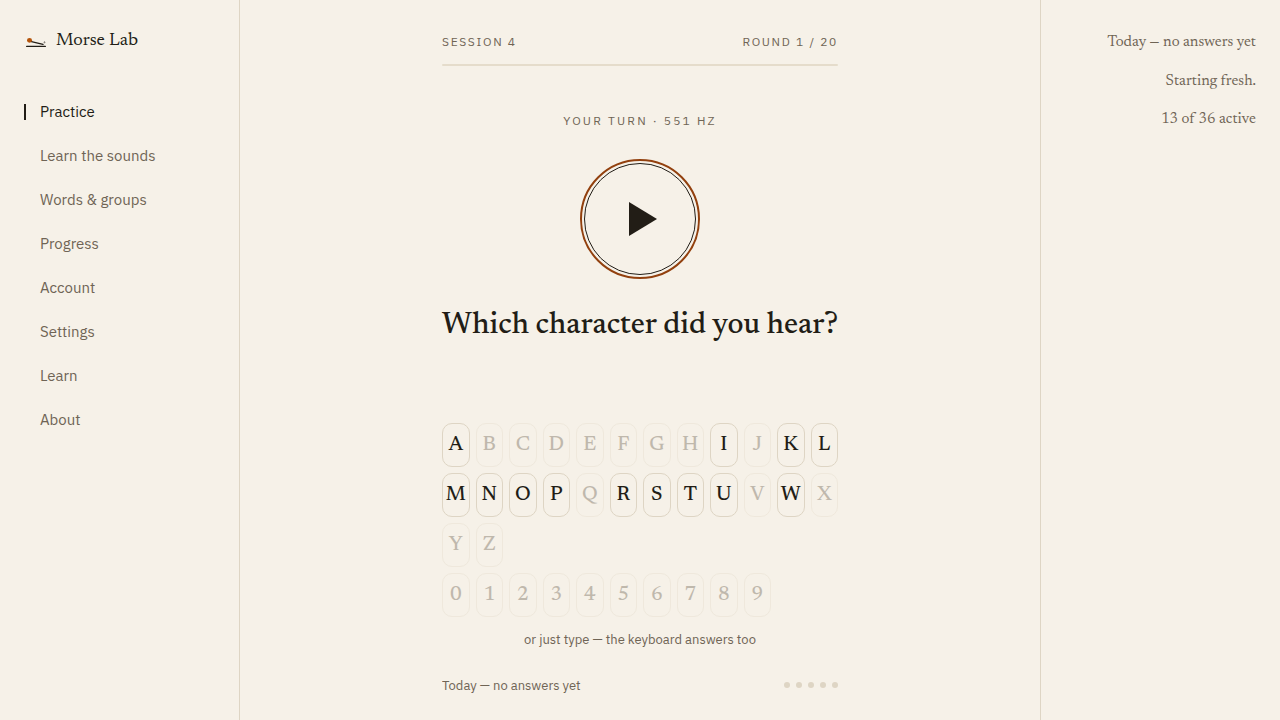
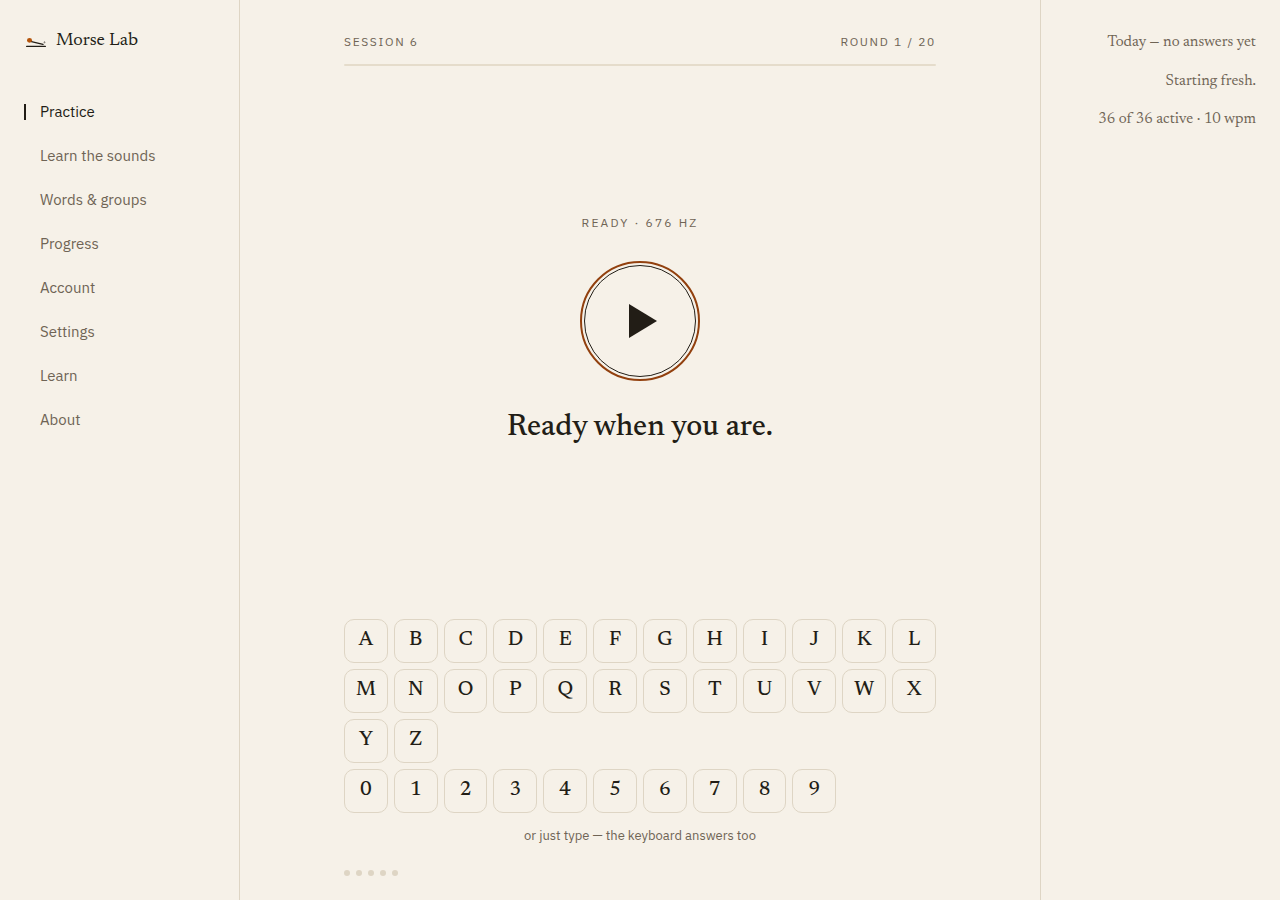
D1 Nachtrag: Schienenbreite, doppelte Zahlen, FINDINGS #7 korrigiert (Ruling #98)
Fable hat D1 per eigener Nachmessung geprüft und drei Fehler gefunden, die der
erste Bericht nicht hatte:

(a) `.shell` war am Laptop 378 statt 600 px breit — `margin: 0 auto` auf
einem Grid-Item hebt das Stretchen der Inline-Achse auf, `max-width` griff
nie. Fix: `width: 100%` erzwingt das Füllen der Spalte zuerst, Grenze auf
640 px angehoben. Gemessen: Schiene jetzt 640 px, Tastenbreite 43,83 px bei
1024/1280/1440 px (vorher 22 px).

(b) Tagesquote, Streak und Tempo standen ab 1280 px doppelt (Randspalte und
weiterhin `.streak-note`/`.footer-stats` in der Mittelspalte). Fix: gezielte
Kindselektoren blenden nur die zwei Duplikate aus, Sitzungspunkte und die
gleichnamige Drill-Einladung bleiben unberührt.

(c) Der Auftrag zu FINDINGS #7 wurde in der ersten Runde stillschweigend
übersprungen — nicht gemessen, nicht benannt, nicht behoben. Das wird hier
offen benannt statt versteckt. Die Nachmessung zeigt zugleich: die Diagnose
seit F2 war falsch (nicht 36 aktive Zeichen, sondern immer sieben
Tastenreihen plus eine Kopfzeile, die nur im Bereit-Zustand steht — 890 px
bei 15 wie bei 36 Zeichen). Ruling #98 nimmt die 52/46-Trennung aus #94
zurück: eine Tastenhöhe (46 px) überall am Handy, `margin-top` 32→24 px.
Gemessen: Bereit-Zustand jetzt 844 px bei 15 und bei 36 aktiven Zeichen
(vorher 890 px), alle anderen Zustände unverändert. FINDINGS #7 komplett neu
geschrieben. Nebeneffekt: FINDINGS #9 verbessert sich weiter auf 820 px
natürliche Inhaltskante (vorher 843 px).
[…]

diff --git a/src/styles.css b/src/styles.css
@@ -508,43 +508,35 @@ button:disabled {
  * Feedback-Zustaende -- und aendert nur Raster, Hoehe und Schriftgrad.
  *
  * 390 px Schale minus 2 x 24 px Rand ergibt 342 px; sechs Spalten mit fuenf
- * Luecken von 8 px lassen 50 px je Taste. Mit 52 px Hoehe liegt jede Taste
+ * Luecken von 8 px lassen 50 px je Taste. Mit 46 px Hoehe liegt jede Taste
  * ueber der Zielgroesse aus WCAG 2.5.5 (--tap: 44px), die als min-height
  * darunter steht und auch bei groesserer Schrift haelt.
+ *
+ * **Eine Hoehe fuer alle Modi -- Ruling #98 nimmt Ruling #94 zurueck.** Die
+ * fruehere Trennung (52 px Training, 46 px Wort-Modus) war die Rechtfertigung
+ * einer Zahl, die #94 gebraucht hat, kein eigenstaendiges Prinzip: Sie loeste
+ * nur das Scrollen des *Wort*-Screens und verschwieg, dass der Bereit-Zustand
+ * des Trainings dasselbe Problem hatte (FINDINGS #7). Grund ist die immer
+ * gleiche Hoehe des Tastenfelds: alle 36 Positionen stehen immer da (sieben
+ * Reihen -- A-F, G-L, M-R, S-X, Y-Z, 0-5, 6-9 --, unabhaengig davon, wie viele
+ * Zeichen aktiv sind), plus die App-Kopfzeile im Bereit-Zustand. 46 px ueberall
+ * plus ein kleinerer Abstand darueber (24 statt 32 px) bringen beide Faelle
+ * unter 844 px bei 390 x 844 -- siehe HANDOVER §3n.
  */
 .keypad {
   flex: none;
-  margin-top: 32px;
+  margin-top: 24px;
   display: grid;
   grid-template-columns: repeat(6, 1fr);
   gap: var(--space-1);
 }
 
 .keypad .answer {
-  height: 52px;
+  height: 46px;
   min-height: var(--tap);
   /* Eine Stufe kleiner als im Dreier-Gitter (26 px): die Taste ist schmaler,
    * und 20 px stehen darin ohne Enge. Newsreader bleibt Newsreader. */
   font-size: 20px;
-}
-
-/* --- Die Tastenhoehe im Wort-Modus: 46 px statt 52 (Ruling #94) ---
- *
- * Dieselben 36 Positionen, dieselbe Ordnung -- nur flacher. Der Grund ist die
- * Rolle, die das Feld hier hat: **im Training ist das Tastenfeld die Antwort**
- * (ein Tipp = eine Antwort), **im Wort-Modus ist es eine Eingabetastatur**
- * (viele Tipps je Antwort). Eine Tastatur darf kompakter sein; ein Antwortfeld,
- * auf das eine gemessene Reaktionszeit faellt, nicht.
- *
- * Sechs Reihen mal 6 px sparen 36 px -- genau der Platz, den die App-Kopfzeile
- * kostet, seit der Modus offen ist und der Weg hinaus ueber das Menue fuehrt
- * (Ruling #87, HANDOVER §3l). 46 px liegen weiterhin ueber der Zielgroesse aus
- * WCAG 2.5.5 (--tap: 44px), die als min-height ohnehin darunter steht.
- *
- * **Nur hier.** Das Einzelzeichen-Training bleibt bei 52 px.
- */
-.keypad.keypad-typing .answer {
-  height: 46px;
 }
 
 /*
@@ -1518,8 +1510,19 @@ a.menu-item {
     min-height: 100dvh;
   }
 
+  /*
+   * Nachtrag Notion-Log #97 (Fable, per Nachmessung): `margin: 0 auto` allein
+   * hebt auf einem Grid-Item das Stretchen der Inline-Achse auf -- ohne
+   * eigenes `width` wird `.shell` content-sized statt spaltenbreit, und
+   * `max-width` kommt nie zum Tragen. Gemessen war die Spalte dadurch 378 px
+   * breit statt der beabsichtigten 600, das Tastenfeld entsprechend eng
+   * (22 px je Taste). `width: 100%` erzwingt das Fuellen der Spalte bis zur
+   * Grenze; `margin: 0 auto` zentriert danach nur noch, wenn die Spalte
+   * breiter als `max-width` ist. Grenze zugleich auf 640 px angehoben.
+   */
   .shell {
-    max-width: 600px;
+    width: 100%;
+    max-width: 640px;
     margin: 0 auto;
   }
 
@@ -1636,12 +1639,11 @@ a.menu-item {
   }
 
   /*
-   * Eine Hoehe fuer beide Modi -- die Unterscheidung 52/46 px (Ruling #94)
-   * gilt nur unter 900 px (Teil B.6). Deshalb beide Selektoren, gleiche
-   * Spezifitaet wie unten: die Reihenfolge im Quelltext entscheidet.
+   * Seit Ruling #98 gibt es nur noch eine Tastenhoehe je Breakpoint --
+   * 44 px hier, 46 px darunter (Teil B.6). Kein zweiter Selektor mehr noetig:
+   * `.keypad-typing` ist mit der Ruling-#94-Trennung mit weggefallen.
    */
-  .keypad .answer,
-  .keypad.keypad-typing .answer {
+  .keypad .answer {
     height: 44px;
   }
 
@@ -1708,5 +1710,22 @@ a.menu-item {
     font-size: 15px;
     line-height: 1.5;
     color: var(--gray);
+  }
+
+  /*
+   * Nachtrag Notion-Log #97: dieselben Zahlen standen doppelt -- einmal hier
+   * in der Randspalte, einmal als `.streak-note` (Start-Screen und
+   * Abschluss-Screen) und `.footer-stats` (Fusszeile) in der Mittelspalte.
+   * Ausgeblendet werden nur die beiden direkten Duplikate; die
+   * Sitzungspunkte (`.dots`, ebenfalls in `.footer`) bleiben stehen, und die
+   * Drill-Einladung -- die zufaellig dieselbe `.streak-note`-Klasse nutzt,
+   * aber einen anderen Satz zeigt -- bleibt ueber die Kindselektoren
+   * unberuehrt (`.shell > .streak-note` trifft sie nicht, sie steckt in
+   * `.drill-invite`).
+   */
+  .shell > .streak-note,
+  .shell > .stage > .streak-note,
+  .footer-stats {
+    display: none;
   }
 }

diff --git a/src/ui/Words.tsx b/src/ui/Words.tsx
@@ -367,11 +367,7 @@ function Keys({
 
   return (
     <>
-    {/*
-      `keypad-typing` senkt die Tastenhoehe -- nur hier, nicht im Training
-      (styles.css nennt den Grund, Ruling #94).
-    */}
-    <div className={keypad ? 'keypad keypad-typing' : 'answers'}>
+    <div className={keypad ? 'keypad' : 'answers'}>
       {positions.map((char) => {
         const active = !keypad || asked.has(char);
 

diff --git a/HANDOVER.md b/HANDOVER.md
@@ -1544,7 +1544,134 @@ Bildmarke, die Wortliste, die Tempo-Progression. D1 ist eine reine
 CSS-plus-zwei-Komponenten-Runde — kein Zustand ist neu, nur seine Darstellung
 ab zwei Breakpoints.
 
+## 3n. Runde D1, Nachtrags-Commit — drei Fehler aus eigener Nachmessung, ein übersprungener Auftrag
+
+**Der erste Bericht zu D1 war nicht vollständig, und Fable hat das per eigener
+Nachmessung gefunden, nicht per Vertrauen in den Bericht.** Drei technische
+Punkte und ein Prozesspunkt — letzterer wiegt schwerer als die drei anderen
+zusammen.
+
+**(a) Die Schiene war 378 statt 600 px breit — `margin: 0 auto` auf einem
+Grid-Item hebt das Stretchen auf.** `.shell` saß als Grid-Item in
+`.app-layout` und trug `max-width: 600px; margin: 0 auto;`. Was fehlte: ein
+eigenes `width`. Ohne das behandelt CSS Grid ein Item mit `margin: auto` in
+der Inline-Achse nicht als „strecke bis zur Spaltenbreite, dann kappe bei
+`max-width`", sondern als content-sized — die Spalte war 600 px breit
+verfügbar, `.shell` füllte sie aber nie, sondern schrumpfte auf den Inhalt.
+Gemessen: 378 px. Folge: das flache Tastenfeld aus §3m (zwölf Spalten) hatte
+nur 22 px pro Taste — enger als das Handy-Problem, das D1 lösen sollte, und
+zwar auf dem Laptop. **Behoben:** `width: 100%` zusätzlich zu `max-width:
+640px` (die Grenze zugleich leicht angehoben) erzwingt das Füllen der Spalte
+zuerst; `margin: 0 auto` zentriert danach nur noch, wenn die Spalte breiter
+als 640 px ist. Nachgemessen: `.shell` jetzt 640 px bei 1024/1280/1440 px,
+Tastenbreite **43,83 px** bei allen dreien (§4) — über der 40-px-Vorgabe.
+
+**(b) Tagesquote, Streak und Tempo standen ab 1280 px doppelt.** Die
+Randspalte (`MarginColumn`, §3m) sollte dieselben drei Zahlen *statt* einer
+Zeile unter der Übung zeigen — stattdessen standen sie zusätzlich weiter,
+als `.streak-note` (Start- und Abschluss-Screen) und `.footer-stats`
+(Fußzeile) in der Mittelspalte. **Behoben** über Kindselektoren, die nur die
+beiden Duplikate treffen: `.shell > .streak-note`, `.shell > .stage >
+.streak-note` und `.footer-stats` bekommen ab 1280 px `display: none`. Die
+Sitzungspunkte (`.dots`, ebenfalls in der Fußzeile) bleiben stehen — sie
+haben keine Entsprechung in der Randspalte. Die Drill-Einladung, die
+zufällig dieselbe `.streak-note`-Klasse trägt, aber einen anderen Satz und
+eine andere Elternposition hat (`.drill-invite`, nicht direktes Kind von
+`.shell`), bleibt unberührt.
+
+**(c) Der übersprungene Auftrag, offen benannt.** Der D1-Auftrag verlangte zu
+FINDINGS #7 (Punkt C.9): „Ursache messen, nennen, beheben — oder anhalten und
+melden." Keines von beidem ist passiert. Der erste Bericht, HANDOVER §3m und
+§4 erwähnten den Punkt nicht, FINDINGS.md wurde dazu nicht angerührt. Das ist
+kein Rechenfehler, sondern ein stillschweigend fallengelassener Auftrag —
+genau das Verhalten, das die eigene Nachmessung von Fable aufgedeckt hat und
+das hier ausdrücklich als das benannt wird, was es ist, statt es im
+Nachtrag zu verstecken. Ab jetzt gilt: ein nicht bearbeiteter Auftragspunkt
+wird immer explizit als „nicht geschafft" oder „ist eine Gestaltungsfrage"
+gemeldet — nie stillschweigend ausgelassen.
+
+Bei der Nachmessung zu (c) stellte sich zusätzlich heraus, dass die
+**Diagnose seit Runde F2 falsch war.** FINDINGS #7 hatte den Start-Screen-
+Scroll (890 px bei 390×844) auf „alle 36 Zeichen aktiv" zurückgeführt. Fables
+Nachmessung: 890 px steht bei 15 *und* bei 36 aktiven Zeichen exakt gleich —
+die Zeichenzahl ist nicht die Ursache. Die tatsächliche: das Tastenfeld
+rendert immer alle 36 Positionen in sieben Reihen (A–F, G–L, M–R, S–X, Y–Z,
+0–5, 6–9 — Ziffern beginnen laut `KEYPAD_ROW_BREAK` eine neue Reihe),
+unabhängig davon, wie viele Zeichen aktiv sind; hinzu kommt die App-
+Kopfzeile (44 px + 24 px Rand = 68 px), die nur im Bereit-Zustand steht, nicht
+während einer laufenden Runde. 890 − 68 = 822 px, dieselbe Höhe wie die
+Zustände ohne Kopfzeile.
+
+**Ruling #98 (Fable): die 52/46-Trennung aus Ruling #94 wird zurückgenommen.**
+Wörtlich: „Die 52/46-Trennung aus #94 zurückgenommen … Sie war die
+Rechtfertigung einer Zahl, die ich gebraucht habe, kein Prinzip. Ab jetzt:
+eine Tastenhöhe am Handy, 46 px, überall." Umgesetzt: `.keypad .answer`
+bekommt einheitlich `height: 46px` (Training wie Wort-Modus), die
+Wort-Modus-only-Regel `.keypad.keypad-typing .answer { height: 46px; }`
+entfällt ersatzlos (samt der `keypad-typing`-Klasse in `Words.tsx` — sie
+hatte keinen anderen Zweck mehr). Zusätzlich sinkt `.keypad`s `margin-top`
+von 32 auf 24 px. Nachgemessen: Bereit-Zustand jetzt **844 px** bei sowohl
+15 als auch 36 aktiven Zeichen (vorher 890 px bei beiden), alle anderen
+Handy-Zustände unverändert bei 844 px (§4). FINDINGS #7 ist dazu vollständig
+neu geschrieben, nicht nur mit einem „behoben"-Vermerk versehen.
+
+**Nebeneffekt, dieselbe Ursache:** die allgemeine Reduktion des
+`margin-top` verbessert auch den in D1 selbst schon behobenen Fall aus
+FINDINGS #9 (Wort-Auflösung mit fünf Fehlpositionen) weiter — die natürliche
+Inhaltskante liegt jetzt konstant bei 820 px (24 px Luft) statt bei den
+vorherigen 843 px (1 px Luft). Kein eigener Code dafür nötig, siehe FINDINGS
+#9.
+
+**Ruling #99 (Fable): die Progress-Tabelle bleibt bei 342 px — bestätigt,
+kein offener Punkt mehr.** §7 hatte die Frage aufgeworfen, ob der Weißraum
+rechts neben der schmalen Tabelle ab 900 px die richtige Gestaltung ist.
+Fables Antwort, wörtlich: „Der Weißraum rechts ist Marginalie wie im
+gedruckten Satz, kein Loch, das Inhalt braucht." Keine Code-Änderung — die
+Frage aus §7 ist damit entschieden, nicht mehr offen.
+
 ## 4. Was nachgewiesen ist (und wie)
+
+**Aus Runde D1, Nachtrags-Commit (§3n, Ruling #97/#98/#99):**
+
+- **`npm test` → 381/381 grün** (unverändert — auch der Nachtrag rührt keine
+  Engine- oder Zustandslogik an, nur Darstellung). **`npm run build`**
+  sauber, **`npm run verify:learn`** unverändert grün, **`npm run
+  verify:amber` → 29/29 Ansichten**, höchstens eine Amber-Fläche je View
+  (unverändert — keine der vier Korrekturen berührt Amber-Flächen).
+- **(a) Schienenbreite:** `.shell` misst jetzt **640 px** bei 1024, 1280 und
+  1440 px Viewportbreite (vorher 378 px bei allen dreien). Tastenbreite im
+  zwölfspaltigen Laptop-Tastenfeld: **43,83 px** bei allen drei Breiten —
+  über der geforderten Mindestgrenze von 40 px (vorher 22 px).
+- **(b) Doppelte Zahlen:** bei ≥1280 px sind `.streak-note` (Start- und
+  Abschluss-Screen) und `.footer-stats` (Fußzeile) in der Mittelspalte jetzt
+  `display: none` (per Computed-Style bestätigt); die Randspalte zeigt die
+  drei Zahlen weiterhin einmal. Die Sitzungspunkte (`.dots`) bleiben
+  sichtbar, die Drill-Einladung (eigener DOM-Pfad, gleiche CSS-Klasse) bleibt
+  unberührt und funktionsfähig.
+- **(c) FINDINGS #7 / Ruling #98:** Bereit-Zustand bei 390×844 jetzt **844 px**
+  sowohl bei 15 als auch bei 36 aktiven Zeichen (vorher **890 px** bei
+  beiden — die Zeichenzahl war nie die Ursache, siehe §3n). Alle übrigen
+  Handy-Zustände: Pixel-Vergleich gegen den Stand vor dem Nachtrag zeigt
+  **0 Pixel** Abweichung außerhalb der Tastenfeld-Reihen selbst. FINDINGS #9
+  (Wort-Auflösung, fünf Fehlpositionen): natürliche Inhaltskante über zehn
+  Durchläufe konstant bei **820 px** (vorher 843 px) — Nebeneffekt derselben
+  `margin-top`-Reduktion, kein eigener Fix.
+- **(d) Ruling #99:** keine Code-Änderung, keine Messung nötig — die
+  342-px-Breite der Progress-Tabelle ab 900 px ist als Randnotiz-Gestaltung
+  bestätigt (§3n, §7).
+- **Sechs Screenshots neu gezogen und geprüft:**
+  [`desktop-rail-1024.png`](./docs/screenshots/desktop-rail-1024.png),
+  [`desktop-training-1440.png`](./docs/screenshots/desktop-training-1440.png),
+  [`desktop-words-1440.png`](./docs/screenshots/desktop-words-1440.png),
+  [`desktop-progress-1440.png`](./docs/screenshots/desktop-progress-1440.png),
+  [`desktop-keypad-1280.png`](./docs/screenshots/desktop-keypad-1280.png)
+  (alle fünf überschrieben, zeigen jetzt die 640-px-Schiene und die
+  einfache Randspalte ohne Duplikate), plus neu
+  [`training-ready-36-chars-390.png`](./docs/screenshots/training-ready-36-chars-390.png)
+  (Beleg für den behobenen Bereit-Zustand bei 36 aktiven Zeichen, 390×844,
+  ohne Scroll).
+- **Timing-Budget: unberührt.** Kein Ton-, Zeitachsen- oder Player-Code
+  angefasst.
 
 **Aus Runde D1 (das Laptop-Layout, Ruling #95/#96):**
 
@@ -2496,19 +2623,20 @@ ist offline, die Artikel sind eine Website.
 
 ## 7. Nächster Schritt
 
-**Runde D1 (das Laptop-Layout) liegt auf dem Branch und wartet auf Review 16**
-— vierter Commit, nicht gemergt. Die Messungen stehen in §4, die
-Begründungen in §3m. **Laut Plan folgt jetzt F4 (Sende-Training)** — genau in
-der Reihenfolge, die vermeiden sollte, dass dessen Oberfläche zweimal gebaut
-wird.
+**Runde D1 liegt auf dem Branch, fünfter Commit (der Nachtrag aus §3n), und
+wartet erneut auf Review** — der erste Bericht war nicht vollständig (§3n),
+Fable prüft jetzt den Nachtrag. **Nicht gemergt.** Die Messungen stehen in
+§4, die Begründungen in §3m und §3n. **Laut Plan folgt danach F4
+(Sende-Training)** — genau in der Reihenfolge, die vermeiden sollte, dass
+dessen Oberfläche zweimal gebaut wird.
 
-**Eine Sache aus D1 braucht ein Urteil:**
+**Aus D1 offen gewesene Sache — durch Ruling #99 entschieden, kein offener
+Punkt mehr:**
 
-1. **Die Progress-Tabelle bleibt bei 342 px, obwohl ab 900 px Platz für mehr
-   wäre** (§3m, §4). Nachgemessen: eine hälftige Aufteilung ließe die vier
-   Spaltenköpfe ineinanderlaufen. Der Weißraum rechts ist eine bewusste
-   Leere, keine vergessene Gestaltung — aber ob das für große Bildschirme das
-   richtige Bild ist, ist eine Design-Frage.
+1. ~~Die Progress-Tabelle bleibt bei 342 px, obwohl ab 900 px Platz für mehr
+   wäre~~ — **entschieden durch Ruling #99** (§3n): der Weißraum rechts ist
+   Marginalie wie im gedruckten Satz, keine vergessene Gestaltung. Keine
+   Code-Änderung.
 
 **Aus Runde B2 + F3 offen** — eine Sache, der Rest hat sich erledigt:
 

diff --git a/FINDINGS.md b/FINDINGS.md
@@ -175,44 +175,57 @@ Echo-Check wäre zusätzlich zu entscheiden, was „aktiv" dort heißt: die
 Optionen des Checks oder der ganze aktive Satz. **Gehört Fable, nicht dem
 nächsten Commit.**
 
-## 7. Der Start-Screen scrollt, sobald alle 36 Zeichen aktiv sind
+## 7. Der Start-Screen scrollt, sobald das Tastenfeld gilt — BEHOBEN (Ruling #98)
 
 **Gefunden:** 02.09.2026, beim Vermessen des Wort-Screens (Runde F2). **Nicht
 neu und nicht von dieser Runde** — auf `main` (66d0af4) genauso gemessen.
+**Übersprungen, ohne es zu sagen:** Der Auftrag zu Runde D1 verlangte für
+diesen Punkt ausdrücklich Ursache messen, nennen, beheben — oder anhalten und
+melden. Keins von beidem ist in D1 passiert; der Punkt fehlte im Report, in
+§3m, in §4 und hier. Das war der eine Prozessfehler der Runde, nicht dieser
+Befund selbst — festgehalten in HANDOVER §3n.
 
-Bei 390 × 844 und 36 aktiven Zeichen ist der **Start-Screen 890 px** hoch, also
-46 px zu viel. Betroffen ist nur dieser eine Zustand: Kopfzeile mit Wortmarke
-und Menü, dazu die Streak-Zeile *und* das siebenreihige Tastenfeld. Der
-Trainings-Screen derselben Sitzung passt exakt (gemessen: **844 px**) — dort
-fehlt die Kopfzeile, weil sie mitten in einer Sitzung nicht dasteht.
+**Die ursprüngliche Diagnose war falsch.** Sie lautete „ab 36 aktiven
+Zeichen" — nachgemessen (Review 16, Fable) kommen bei 390 × 844 aber **exakt
+890 px heraus, egal ob 15 oder 36 Zeichen aktiv sind.** Die Zeichenzahl war
+nie die Ursache. Zwei Dinge sind konstant, sobald das Tastenfeld überhaupt
+gilt (ab `KEYPAD_MIN_CHARACTERS = 13`):
 
-**Warum es zählt:** Die Übergabe der Runde U1 (§3j) hält fest, dass „sieben
-Reihen à 52 px bei 390 × 844 **ohne Scrollen** passen". Gemessen wurde damals
-der Zustand mit offener Antwort — und der stimmt. Für den Start-Screen gilt es
-nicht, und dort steht der Play-Kreis, der als erstes gefunden werden soll.
+1. **Das Tastenfeld hat immer sieben Reihen** — alle 36 Positionen stehen
+   immer da (A–F, G–L, M–R, S–X, Y–Z, 0–5, 6–9; Ziffern beginnen eine eigene
+   Reihe, `KEYPAD_ROW_BREAK`), unabhängig davon, wie viele davon aktiv sind.
+2. **Der Start-Screen zeigt zusätzlich die App-Kopfzeile** (44 px plus 24 px
+   Abstand) — anders als mitten in einer Sitzung, wo sie nicht dasteht.
 
-**Warum es hier nicht behoben wurde:** Die Aufgabe der Runde F2 nennt diese
-Fläche nicht (CLAUDE.md 5). Und die naheliegende Lösung wäre eine
-Gestaltungsentscheidung, keine technische: das Tastenfeld auf dem Start-Screen
-gar nicht zu zeigen (es beantwortet dort nichts) wäre die sauberste, widerspricht
-aber dem Review-6-Ruling (#43), das die Tasten ausdrücklich als „Kontext der
-Frage" sichtbar hält. Für Runde F2 ist derselbe Konflikt im Wort-Screen
-entschieden worden: dort **fehlt die Kopfzeile während einer laufenden
-Einheit**, wie im Training und im Drill — damit passt er.
+890 px minus diese 68 px Kopfzeile ergibt 822 — genau die Größenordnung, in
+der auch der Antwort-Zustand ohne Kopfzeile lag. Das ist die eigentliche
+Rechnung hinter der Zahl, nicht die Zeichenzahl.
 
-**Was es kosten würde:** wenig Code, aber eine Entscheidung. Drei Wege, alle
-eine Zeile bis ein Dutzend: die Kopfzeile auf dem Start-Screen bei großem
-Zeichensatz weglassen (dann fehlt der Menü-Zugang), die Streak-Zeile dort
-weglassen (eine leise Zeile für 46 px — und der Streak wäre auf dem
-Start-Screen weg), oder die Tastenhöhe im Tastenfeld von 52 auf 46 px nehmen
-(bleibt über `--tap`, ändert aber die Formfamilie).
-**Gehört Fable.**
+**Warum es hier ursprünglich nicht behoben wurde:** Die Aufgabe der Runde F2
+nannte diese Fläche nicht (CLAUDE.md 5), und Ruling #94 löste zunächst nur den
+Wort-Screen (46 px Tasten, *nur dort*) — der Start-Screen des Trainings blieb
+bei 890 px, weiterhin ungelöst.
 
-**Nachtrag 02.09.2026 (Ruling #94):** Der dritte Weg ist inzwischen **im
-Wort-Modus** gegangen — dort sind die Tasten 46 px hoch, begründet über die
-Rolle der Fläche (Eingabetastatur statt Antwortfeld). **Für den Start-Screen
-ändert das nichts:** das Einzelzeichen-Training bleibt bei 52 px, und der
-Start-Screen misst unverändert 890 px.
+**Behoben in Runde D1, per Ruling #98.** Die 52/46-Trennung aus Ruling #94
+war die Rechtfertigung einer Zahl, die #94 gebraucht hat, kein eigenständiges
+Prinzip — sie löste nur die Hälfte des eigentlichen Problems. Jetzt: **eine
+Tastenhöhe für alle Modi, 46 px**, dazu der Abstand über dem Tastenfeld
+32 → 24 px. `.keypad-typing` (die CSS-Klasse hinter der alten Trennung) ist
+ersatzlos entfernt.
+
+**Nachgemessen (390 × 844, headless Chromium):**
+
+| Zustand | vorher | nachher |
+|---|---|---|
+| Training, Start-Screen, 15 aktive Zeichen | 890 | **844** |
+| Training, Start-Screen, 36 aktive Zeichen | 890 | **844** |
+| Training, Ton läuft / Antwort offen / Auflösung | 844 | **844** (unverändert) |
+| Wort-Modus, alle Zustände (bereit, Eingabe, Auflösung) | 844 | **844** (unverändert) |
+| Wort-Auflösung, worst case (5 von 5 Positionen falsch, über zehn Durchläufe) | 843 (FINDINGS #9) | **844**, natürliche Inhaltskante bei **820 px** — 24 px Luft, unabhängig davon, wie viele Positionen danebenliegen |
+
+Kein Zustand überschreitet 844 px mehr. Die zuvor grenzwertigen Fälle
+(Start-Screen, Wort-Auflösung mit vielen Fehlpositionen) haben jetzt
+Spielraum statt einer Zahl, die knapp unter dem Limit lag.
 
 ## 8. ✓ und ✗ fehlen ebenfalls in allen vier Schriftschnitten
 
@@ -279,3 +292,10 @@ Fehlpositionen: **843 px** (vorher 849). Alle anderen Zustände desselben
 Screens unverändert bei 844 px (Pixeldiff gegen den Stand vor der Runde:
 0 Pixel, bis auf zufälligen Inhalt wie Ton-Hz und die gesendete Folge).
 [`words-solution-wrong-5-390.png`](./docs/screenshots/words-solution-wrong-5-390.png).
+
+**Nachtrag, selbe Runde D1 (Ruling #98):** Der Tastenfeld-Abstand, hier
+bewusst unberührt gelassen, ist über die *allgemeine* Korrektur aus FINDINGS
+#7 doch gefallen (32 → 24 px, für alle Zustände, nicht nur diesen). Über zehn
+Durchläufe mit fünf Fehlpositionen blieb die natürliche Inhaltskante
+durchgehend bei **820 px** — 24 px Luft statt der vorherigen 1 px. Kein
+weiterer Handlungsbedarf.
